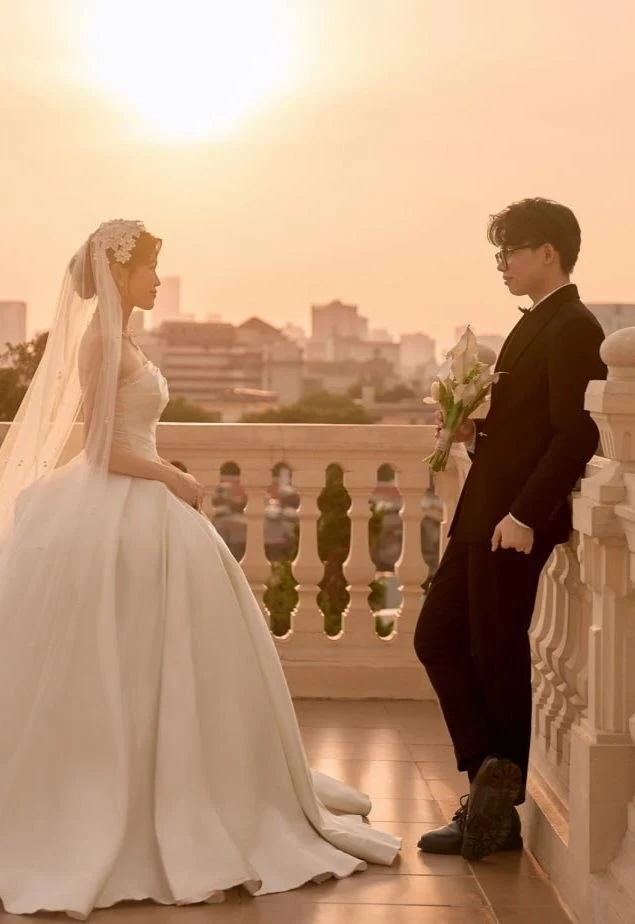
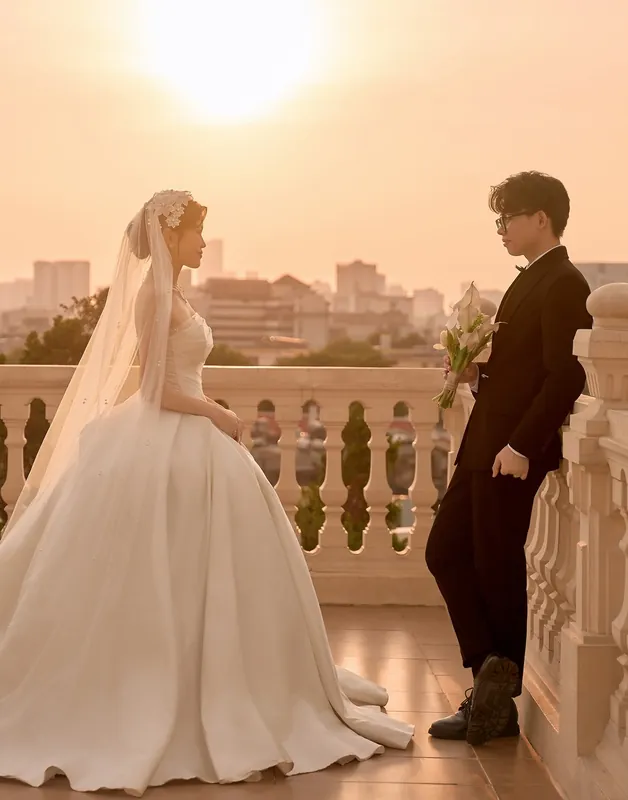
feat: add new photo assets and update invitation script for expanded album

diff --git a/js/invitation.js b/js/invitation.js
@@ -1,5 +1,5 @@
 (() => {
-  const PHOTO_IDS = ["01", "02", "03", "04", "05", "06", "07"];
+  const PHOTO_IDS = ["01", "02", "03", "04", "05", "06", "07", "08", "09", "10", "11", "12", "13", "14"];
   const PHOTOS_CARD = PHOTO_IDS.map((id) => `assets/photos/card/${id}.webp`);
   const PHOTOS_FULL = PHOTO_IDS.map((id) => `assets/photos/full/${id}.webp`);
 

diff --git a/scripts/optimize-photos.py b/scripts/optimize-photos.py
@@ -109,13 +109,22 @@ def main() -> int:
         if size > TARGETS["hero"]:
             failed = True
 
-    for i in range(1, 8):
-        name = f"{i:02d}.jpg"
+    album_ids = sorted(
+        p.stem
+        for p in SRC.glob("[0-9][0-9].jpg")
+        if p.stem.isdigit()
+    )
+    if not album_ids:
+        print("no numbered album JPEGs in originals", file=sys.stderr)
+        return 1
+
+    for stem in album_ids:
+        name = f"{stem}.jpg"
         src = require(SRC / name)
-        card_dest = CARD_DIR / f"{i:02d}.webp"
-        full_dest = FULL_DIR / f"{i:02d}.webp"
+        card_dest = CARD_DIR / f"{stem}.webp"
+        full_dest = FULL_DIR / f"{stem}.webp"
         if fresh(card_dest, src, TARGETS["card"]) and fresh(full_dest, src, TARGETS["full"]):
-            print(f"SKIP {i:02d} card {kb(card_dest.stat().st_size)} full {kb(full_dest.stat().st_size)}")
+            print(f"SKIP {stem} card {kb(card_dest.stat().st_size)} full {kb(full_dest.stat().st_size)}")
             continue
         im = load_rgb(src)
         if fresh(card_dest, src, TARGETS["card"]):
